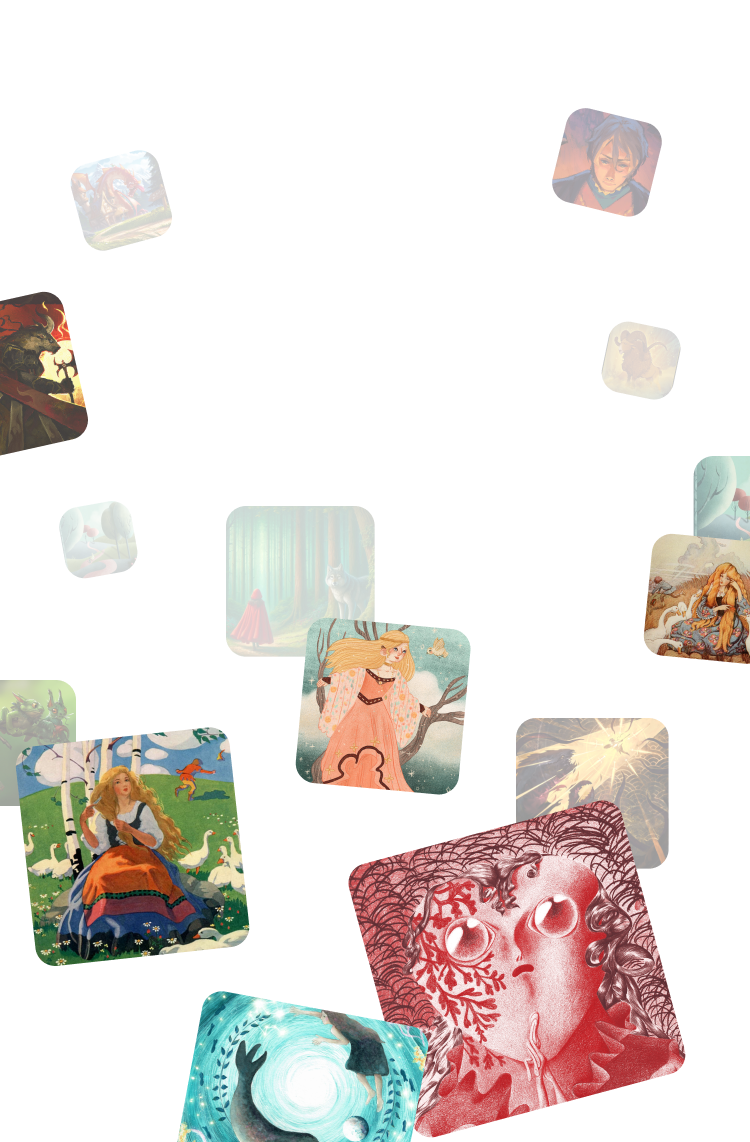
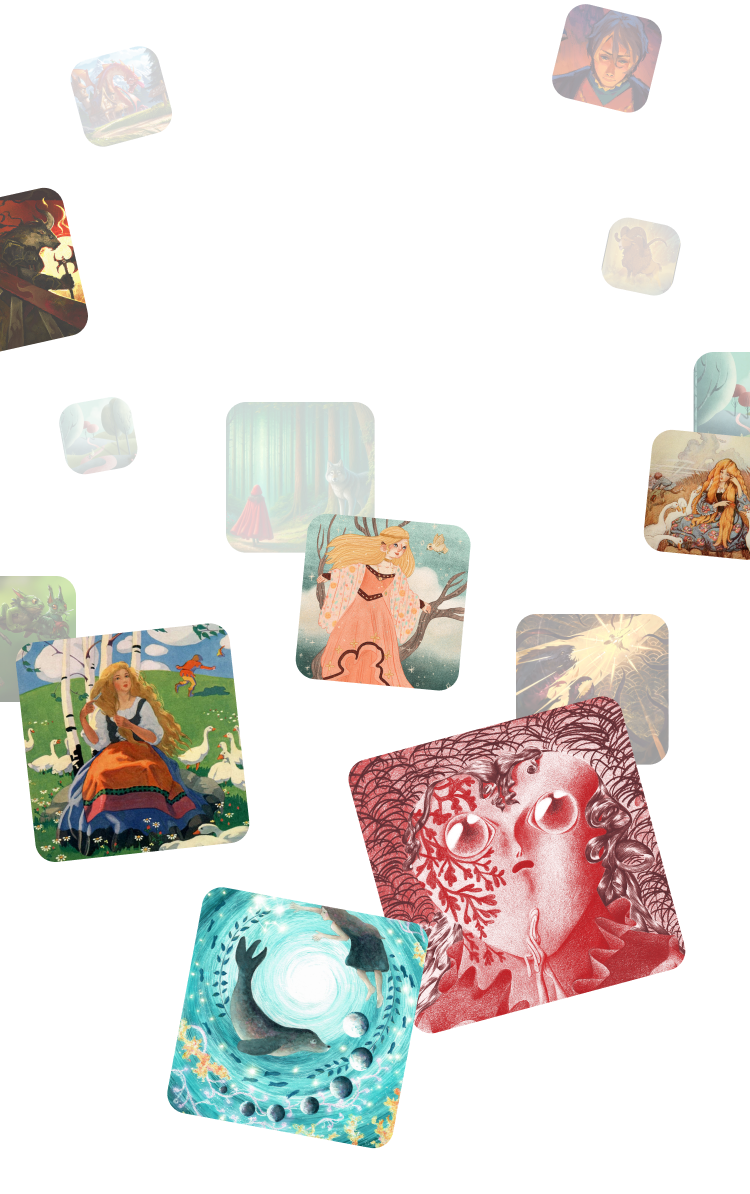
update moreTaleComming image

diff --git a/src/components/Lists/MoreTalesComingFooter/MoreTalesComingFooter.styles.ts b/src/components/Lists/MoreTalesComingFooter/MoreTalesComingFooter.styles.ts
@@ -1,13 +1,12 @@
 import { StyleSheet } from 'react-native';
 
 import { WINDOW_WIDTH } from '@/constants/layout';
-import { TAB_BAR_STORY_PLAYER_HEIGHT } from '@/constants/sizes';
 import { MakeStylesProps } from '@/hooks/theme/useMakeStyles';
 
 export const makeStyles = ({ colors, dh, dw, fonts }: MakeStylesProps) =>
   StyleSheet.create({
     backgroundImage: {
-      height: dw(571),
+      height: dw(597),
       left: 0,
       position: 'absolute',
       top: 0,
